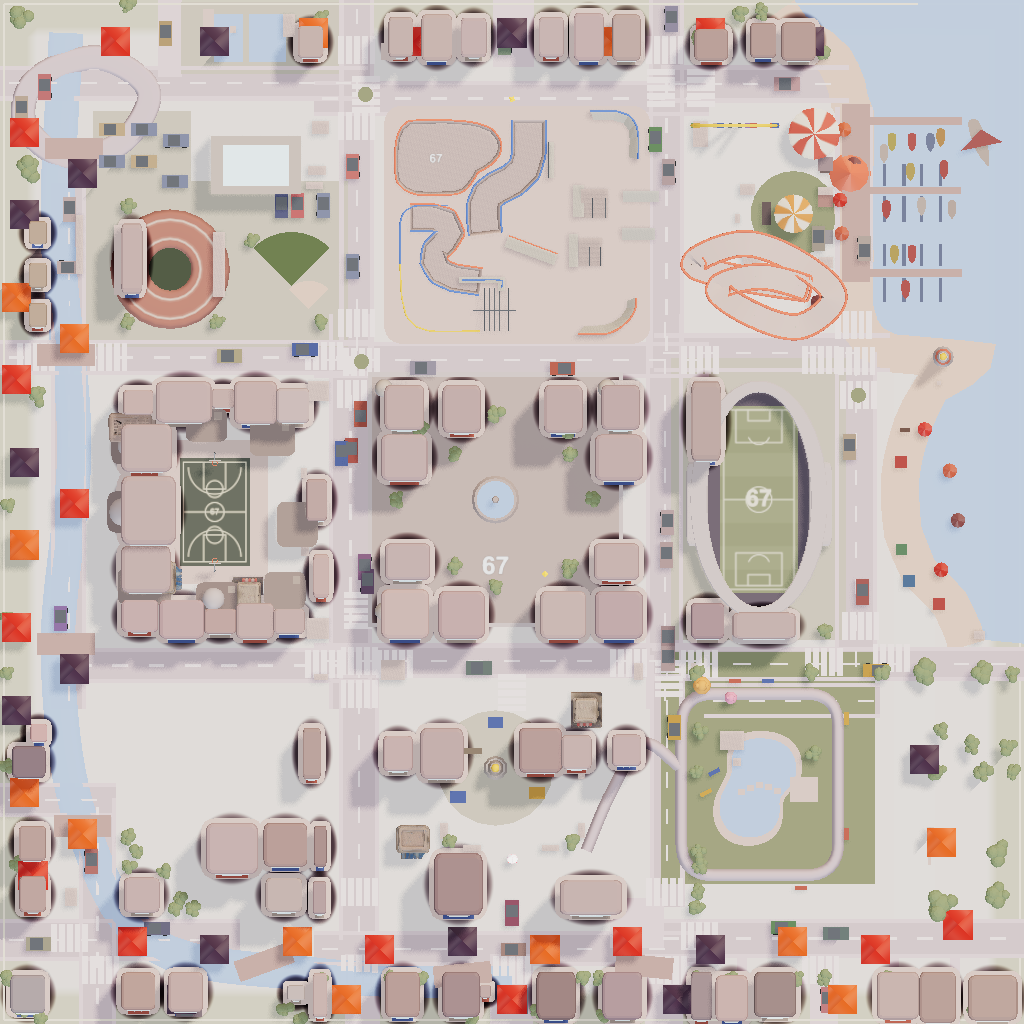
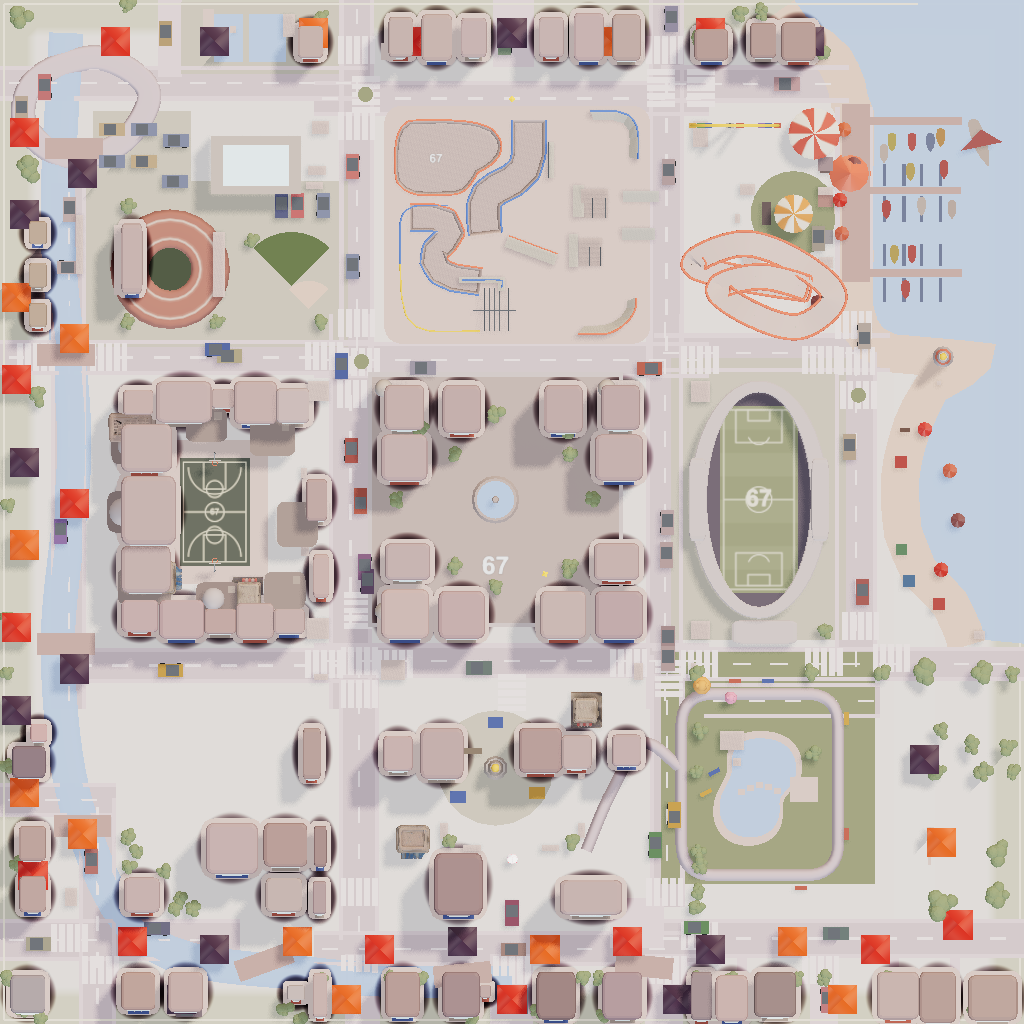
The wall tangled up with the houses was exactly that: houses standing on the stadium.
The layout solver keeps out of a district by testing a box, and the stadium's box stopped at z = +/-12 while its apron runs -18.6..15.5. Everything between was fair game, so a four-storey block ended up sitting on the west wall and another on the south corner — from above they read as a long broken wall growing out of the terraces. The box is the measured apron now.

The stands were wrong as well, and wrongly conceived. Measured at 9x, the west one runs pixels 861..883 by 573..676 — 2.1 wide by 10.0 long — and it sits ON the bowl wall: outer face just past the oval, inner face over the wall's inner edge. That is what a seating deck looks like from above. Mine were wider, taller than the wall and offset a metre and a half up the pitch, so they read as two more buildings that had crashed into the stadium rather than as part of it. Both are on the wall now, the same size, symmetrical.

The park map is re-rendered from the world so it shows the stadium as it now stands.

278/278 tests green, budget PASS

diff --git a/src/world/stadium.js b/src/world/stadium.js
@@ -138,10 +138,15 @@ export function buildStadium(mats) {
   // end. All three are the same pale box, so they ride one instanced mesh.
   // Offsets from the stadium's own centre, each read off the drawing: the two
   // grandstands outside the long sides, and the entrance block at the south.
+  // Measured at 9x: the west stand runs pixels 861..883 by 573..676, so it is
+  // 2.1 wide by 10.0 long and sits ON the bowl wall — its outer face just
+  // past the oval, its inner face over the wall's inner edge. That is what a
+  // seating deck looks like from above, and it is why it must not be a
+  // free-standing block beside the stadium.
   const STANDS_67 = [
-    [-7.5, 0.55, 2.6, 10.1, 2.3],
-    [7.5, 0.55, 2.8, 10.1, 2.3],
-    [0.7, 16.05, 7.8, 2.9, 1.9],
+    [-7.42, 0, 2.13, 9.98, 2.55],
+    [7.42, 0, 2.13, 9.98, 2.55],
+    [0.7, 16.05, 7.8, 2.9, 1.7],
   ];
   const standMesh = new THREE.InstancedMesh(
     roundedBoxGeometry(1, 1, 1, 0.18, 0.06), mats.white, STANDS_67.length,

diff --git a/src/world/city-districts.js b/src/world/city-districts.js
@@ -1276,7 +1276,11 @@ export function buildCityDistricts({ group, add, material, animated, buildStadiu
   const OZEL_BOLGELER = [
     { minX: -16.5, maxX: 17.8, minZ: -50.2, maxZ: -19.3 },   // skatepark
     { minX: -48, maxX: -24, minZ: -12, maxZ: 12 },   // basketball court ring
-    { minX: 20, maxX: 44, minZ: -12, maxZ: 12 },     // stadium
+    // The whole measured apron, not just the oval: the old box stopped at
+    // z = +/-12 and the apron runs -18.6..15.5, so the layout solver was free
+    // to stand a house on the stadium's west wall and another on its south
+    // corner. That is what "the wall is tangled up with the houses" was.
+    { minX: 18.6, maxX: 41.2, minZ: -19.4, maxZ: 16.2 },     // stadium
     { minX: -10, maxX: 6, minZ: 24, maxZ: 39 },      // market square
     { minX: 18, maxX: 46, minZ: -50, maxZ: -18 },    // funfair
     { minX: 18, maxX: 46, minZ: 18, maxZ: 46 },      // pond park
